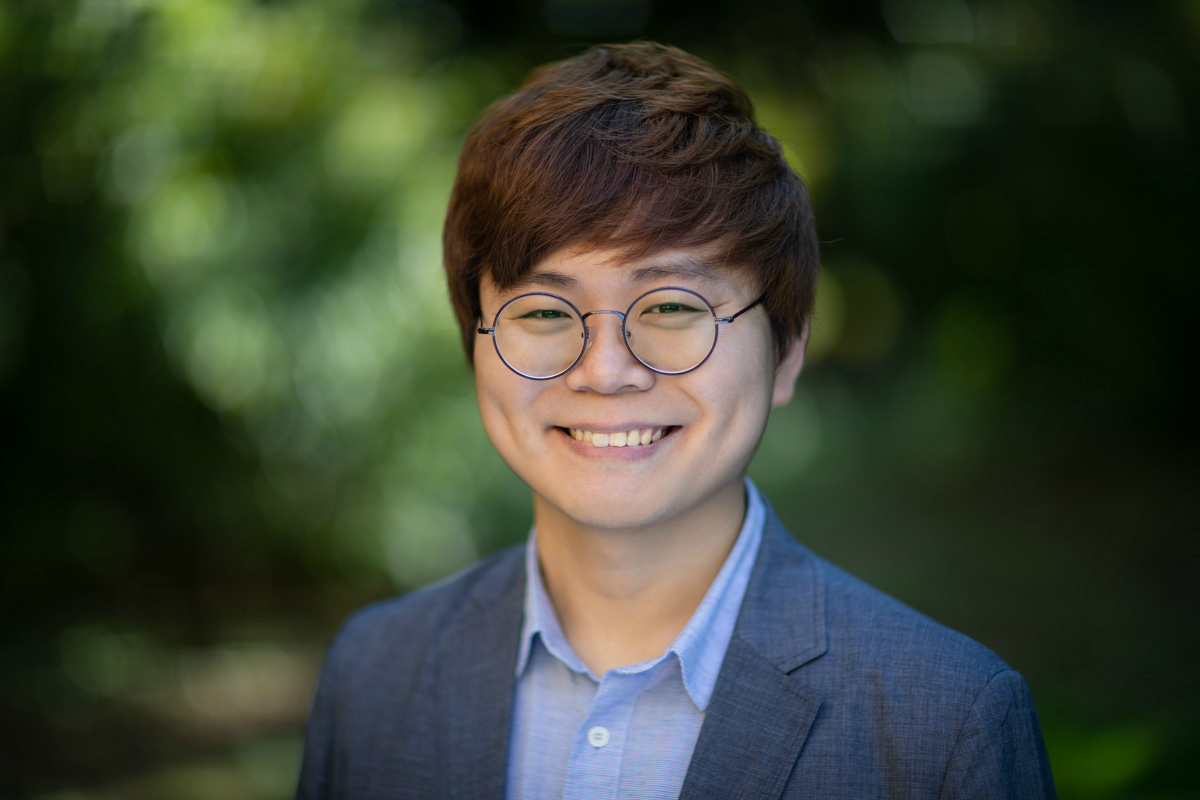
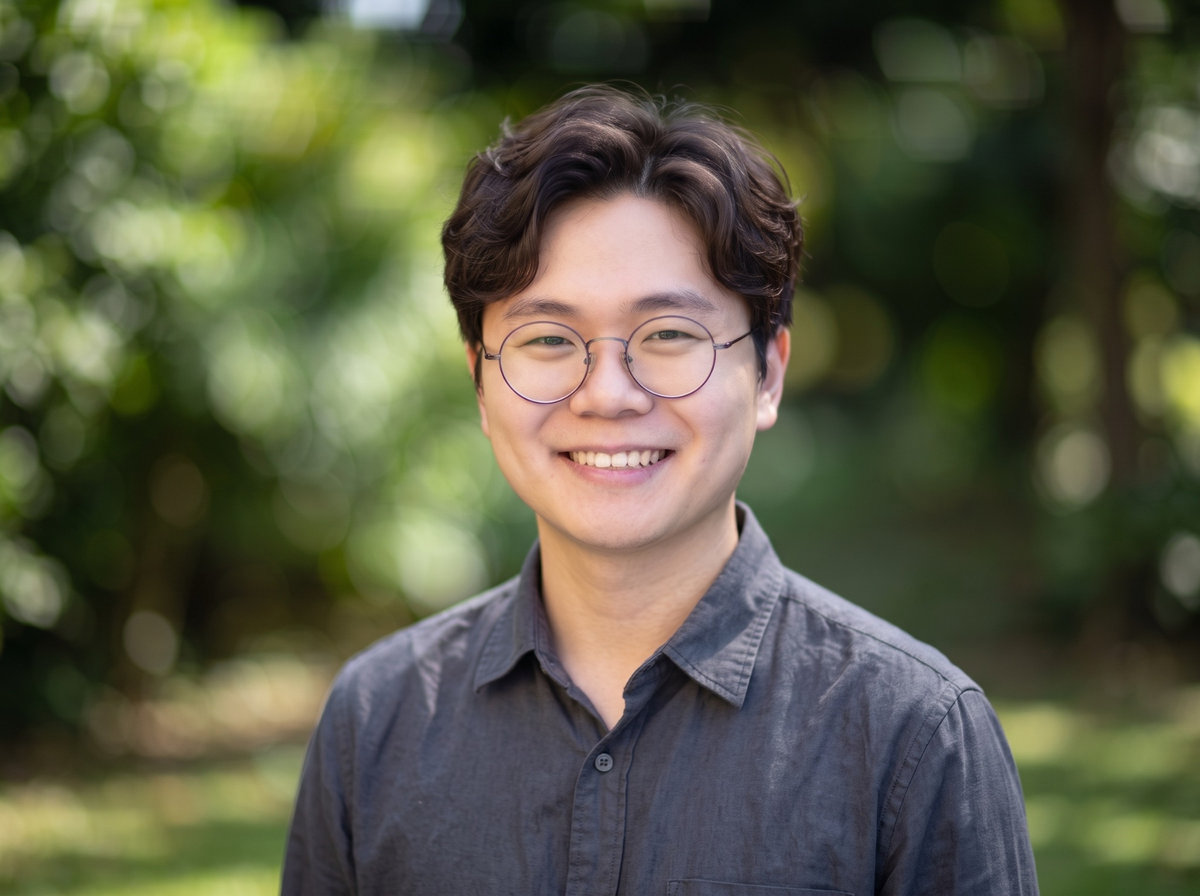
Update Wonyong Park portrait on About page

diff --git a/about/index.html b/about/index.html
@@ -124,7 +124,7 @@
 </div>
 <div class="grid three team-grid">
 <article class="card person-card">
-<img alt="Wonyong Park" class="person-photo" src="../assets/images/wonyong_park.jpg"/>
+<img alt="Wonyong Park" class="person-photo" src="../assets/images/wonyong_park.jpg?v=20261025"/>
 <h3>Wonyong Park</h3>
 <p class="role">Associate Professor · University of Southampton</p>
 <p>Project lead</p>
